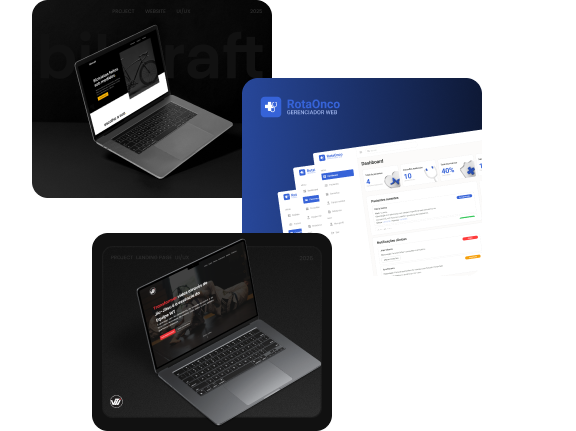
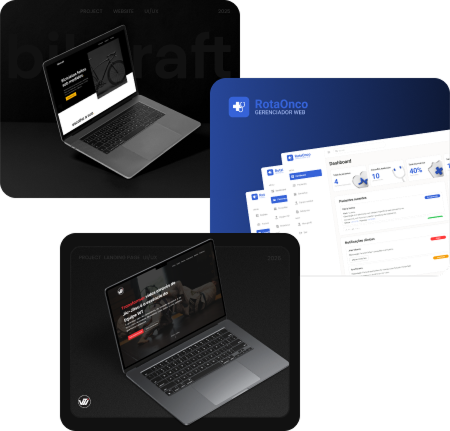
Page about is finished.

diff --git a/src/pages/about/index.tsx b/src/pages/about/index.tsx
@@ -1,19 +1,66 @@
-import Header from "@components/header"
-import Layout from "@components/layout"
+import Header from '@components/header'
+import Layout from '@components/layout'
+import Title from '@components/title'
+import ProjetosImg from '@assets/images/image-4.png'
+import Card from '@components/card'
+import LogoOne from '@assets/logo/logo-1.svg'
+import LogoTwo from '@assets/logo/logo-2.svg'
+import Footer from '@components/footer'
 
 export default function About() {
     return(
         <>
             <Header/>
-            <main className="mt-52">
-                <section aria-label="seção sobre">
+            <main className='mt-52'>
+                <section aria-label='seção sobre' className='mb-28'>
                     <Layout>
-                        <div className="grid grid-cols-2 items-start gap-12">
-                            
+                        <div className='grid grid-cols-2 gap-12'>
+                            <div className='flex flex-col gap-4'>
+                                <Title title='minha trajetória no design' subtitle='Aprendendo, criando e evoluindo através de experiência digitais.'/>
+                                <div className='flex flex-col gap-2'>
+                                    <p className='text-grey-100'>
+                                        Meu interesse por UI/UX começou ainda no ensino médio técnico, durante uma disciplina voltada ao design. Apensar de não ser um conteúdo aprofundado, foi nesse momento que tive o primeiro contato com o universo do design e passei a criar pequenas interfaces.
+                                    </p>
+                                    <p className='text-grey-100'>
+                                        Ao ingressar na faculdade, compreendi a importância de planejar bem os projetos antes do desenvolvimento. Em algumas disciplinas, comecei a criar protótipos para estruturar melhor as ideias antes de transformá-las em produtos funcionais, o que fortaleceu ainda mais meu interesse por UI/UX.
+                                    </p>
+                                    <p className='text-grey-100'>
+                                        Desde então, venho me dedicando a cursos na área de UI/UX Design com o objetivo de aprimorar minhas habilidades e conhecimentos. Atualmente, continuo em constante aprendizado e evolução.
+                                    </p>
+                                </div>
+                            </div>
+                            <div className='flex justify-end'>
+                                <img src={ProjetosImg} alt="Imagens de projetos"/>
+                            </div>
+                        </div>
+                    </Layout>
+                </section>
+                <section aria-label='seção experiência profissional' className='py-28'>
+                    <Layout>
+                        <div className='flex flex-col gap-12'>
+                            <Title title='experiência profissional' subtitle='Entre código, interfaces e experiência do usuário.'/>
+                            <div className='flex flex-col gap-6'>
+                                <Card nameClasse='bg-grey-500 p-6 rounded-2xl' title='RotaOnco | agost de 2025 - out de 2025 (Freelancer)' subtitle='Responsável pelo Design UI/UX' list={["Pesquisa de referência visuais e funcionais", "Criação de wireframes para definição perfis de usuários (médicos, paciente e adm do gerenciador).", "Protótipos de alta fidelidade para app e gerenciador, garantindo experiência intuitiva."]}/>
+                                <Card nameClasse='bg-grey-500 p-6 rounded-2xl' title='EquipeWT | jul de 2025 - agost de 2025 (Freelancer)' subtitle='Responsável pelo Design UI/UX' list={["Pesquisa de referência visuais e funcionais.", "Criação de wireframes para definição da estrutura do site.", "Desenvolvimento do layout e protótipos de alta fidelidade."]}/>
+                                <Card nameClasse='bg-grey-500 p-6 rounded-2xl' title='Sistema Fiea | out de 2024 - jun de 2025 (Estágio)' subtitle='Estágio em Design UI/UX' list={["Atuação em parceria com outro designer no desenvolvimento de interfaces para sistemas internos.", "Criação de wireframes e protótipos de alta fidelidade no Figma.", "Participação em todo o processo de design, do planejamento à prototipação.", "Aprofundamento em UX e UI Design, com foco na experiência do usuário e na construção visual das interfaces."]}/>
+                                <Card nameClasse='bg-grey-500 p-6 rounded-2xl' title='Sistema Fiea | jul de 2024 - set de 2024 (Estágio)' subtitle='Estágio em Desenvolvimento Front' list={["Colaboração com a equipe no desenvolvimento do front-end de um sistema interno.", "Participação em prática de desenvolvimento ágil, como sprints, dailies e retrospectivas.", "Aprimoramento dos conhecimentos técnicos em front-end durante o estágio.", "Experiência prática em trabalho em equipe e aplicação de metodologias ágeis."]}/>
+                            </div>
+                        </div>
+                    </Layout>
+                </section>
+                <section aria-label='seção minha formação' className='py-28'>
+                    <Layout>
+                        <div className='flex flex-col gap-12'>
+                            <Title title='minha formação' subtitle='Caminho de estudos e aprendizado.'/>
+                            <div className='flex flex-col gap-6'>
+                                <Card nameClasse='items-center' image={LogoOne} title='Centro Universitário - CESMAC' subtitle='Sistemas de Informação | 2021.2 - 2025.1' variant='row'/>
+                                <Card nameClasse='items-center' image={LogoTwo} title='Centro de Educação e Tecnologia Sesi Senai' subtitle='Ensino Médio Técnico em Informatica para Internet | 2019 - 2021' variant='row'/>
+                            </div>
                         </div>
                     </Layout>
                 </section>
             </main>
+            <Footer/>
         </>
     )
 }

diff --git a/src/components/card/index.tsx b/src/components/card/index.tsx
@@ -3,27 +3,41 @@ interface CardProps {
     image?: string;
     title: string;
     subtitle?: string;
-    description: string;
+    description?: string;
+    list?: string[];
     nameClasse?: string;
+    animated?: boolean;
     variant?: "column" | "row";
 }
 
-export default function Card({  icon, image, title, subtitle, description, nameClasse, variant = "column" }: CardProps) {
+export default function Card({  icon, image, title, subtitle, description, list, nameClasse, animated = false, variant = "column" }: CardProps) {
     return(
-        <div className={`${nameClasse} ${variant === "row" ? "flex gap-4" : "flex flex-col gap-1"} transition-all duration-500 ease-[cubic-bezier(0.22,1,0.36,1)] hover:-translate-y-1 hover:bg-grey-600 hover:shadow-2xl`}>
+        <div className={`${nameClasse} ${variant === "row" ? "flex gap-4" : "flex flex-col gap-1"} ${animated && `transition-all duration-500 ease-[cubic-bezier(0.22,1,0.36,1)] hover:-translate-y-1 hover:bg-grey-600 hover:shadow-2xl`}`}>
             {image && (
-                <img src={image} alt="" className='rounded-2xl'/>
+                <img src={image} alt="" className='w-20 h-20'/>
             )}
             {icon && (
                 <img src={icon} alt="" className='w-6 h-6'/>
             )}
-            <div className='flex flex-col gap-2'>
-                <h3 className='text-white text-2xl font-medium'>{title}</h3>
-                {subtitle && (
-                    <p className='text-grey-400'>{subtitle}</p>
-                )}
+            <div className='flex flex-col gap-4'>
+                <div className='flex flex-col gap-1'>
+                    <h3 className='text-white text-2xl font-medium'>{title}</h3>
+                    {subtitle && (
+                        <p className='text-grey-400'>{subtitle}</p>
+                    )}
+                </div>
                 {description && (
                     <p className='text-grey-100'>{description}</p>
+                )}
+                {list && (
+                    <ul className='flex flex-col'>
+                        {list.map((item) => (
+                            <li key={item} className='flex items-center gap-2 text-grey-100'>
+                                <span className='bg-white w-1.5 h-1.5 rounded-full'/>
+                                {item}
+                            </li>
+                        ))}
+                    </ul>
                 )}
             </div>
         </div>

diff --git a/src/pages/home/index.tsx b/src/pages/home/index.tsx
@@ -86,9 +86,9 @@ export default function Home() {
                         <div className='flex flex-col gap-12'>
                             <Title title='design em prática' subtitle='Design aplicado em projetos reais'/>
                             <div className='flex gap-6'>
-                                <Card nameClasse='bg-grey-500 p-6 rounded-2xl' variant='column' icon={LayoutIcon} title='Interface do Usuário' description='Criação de interfaces modernas, organizadas e funcionais, com foco em estética e usabilidade para experiências digitais claras e consistentes.'/>
-                                <Card nameClasse='bg-grey-500 p-6 rounded-2xl' variant='column' icon={BrainIcon} title='Experiência do Usuário' description='Desenvolvimento de soluções centradas no usuário com foco em navegação intuitiva, clareza visual e interações simples e eficientes.'/>
-                                <Card nameClasse='bg-grey-500 p-6 rounded-2xl' variant='column' icon={NetworkIcon} title='Prototipação de Interfaces' description='Planejamento de fluxos, wireframes e protótipos navegáveis para transformar ideias em experiências digitais claras e consistentes.'/>
+                                <Card animated nameClasse='bg-grey-500 p-6 rounded-2xl' variant='column' icon={LayoutIcon} title='Interface do Usuário' description='Criação de interfaces modernas, organizadas e funcionais, com foco em estética e usabilidade para experiências digitais claras e consistentes.'/>
+                                <Card animated nameClasse='bg-grey-500 p-6 rounded-2xl' variant='column' icon={BrainIcon} title='Experiência do Usuário' description='Desenvolvimento de soluções centradas no usuário com foco em navegação intuitiva, clareza visual e interações simples e eficientes.'/>
+                                <Card animated nameClasse='bg-grey-500 p-6 rounded-2xl' variant='column' icon={NetworkIcon} title='Prototipação de Interfaces' description='Planejamento de fluxos, wireframes e protótipos navegáveis para transformar ideias em experiências digitais claras e consistentes.'/>
                             </div>
                         </div>
                     </Layout>

diff --git a/src/components/footer/index.tsx b/src/components/footer/index.tsx
@@ -5,7 +5,7 @@ import Layout from '@components/layout'
 
 export default function Footer() {
     return(
-        <footer className='border border-t-grey-500 py-10'>
+        <footer className='border-t border-t-grey-500 py-10'>
             <Layout>
                 <div className='flex items-center justify-between'>
                     <div>
